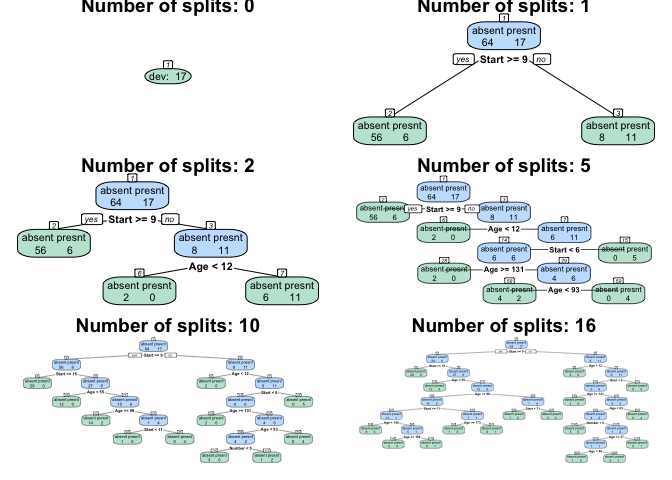
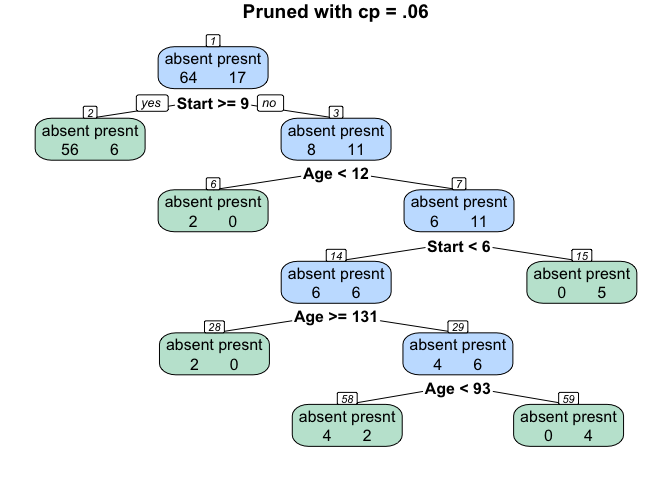
set eval=TRUE

diff --git a/README.md b/README.md
@@ -75,6 +75,8 @@ leaves more explict by setting `show_leaf_dev` to `TRUE`:
 annotree(kmod, show_classes = TRUE, show_leaf_dev = TRUE)
 ```
 
+<img src="man/figures/README-unnamed-chunk-3-1.png" width="100%" />
+
 Now we turn to the pruning process. `rpart()` returns a `cptable` which
 provides pruning options. Following the cost complexity pruning
 algorithm of CART (see Breiman, et al. 1984) the table does not show
@@ -88,6 +90,13 @@ the pruning process.
 
 ``` r
 kmod$cptable
+#>        CP nsplit rel error xerror   xstd
+#> 1 0.17647      0    1.0000  1.000 0.2156
+#> 2 0.11765      1    0.8235  1.176 0.2283
+#> 3 0.07843      2    0.7059  1.176 0.2283
+#> 4 0.05882      5    0.4706  1.118 0.2243
+#> 5 0.02941     10    0.1765  1.353 0.2387
+#> 6 0.00000     16    0.0000  1.294 0.2355
 ```
 
 The `CP` column shows the minimum complexity parameter for a tree of the
@@ -98,6 +107,8 @@ will have 5 splits:
 ``` r
 annotree(prune(kmod, .06), main = "Pruned with cp = .06")
 ```
+
+<img src="man/figures/README-unnamed-chunk-5-1.png" width="100%" />
 
 ## How the cptable is created
 
@@ -174,6 +185,8 @@ annotree(kmod, show_classes = FALSE, show_gt = TRUE,
          show_leaf_dev = TRUE, show_internal_dev = TRUE)
 ```
 
+<img src="man/figures/README-unnamed-chunk-6-1.png" width="100%" />
+
 By setting `show_min` to `TRUE` we can add “\*minimum” to the labels for
 node(s) with the minimum value for $g(t)$. Adding `show_pruned` changes
 the color of these nodes and their descendents:
@@ -183,6 +196,8 @@ annotree(kmod, show_classes = FALSE, show_gt = TRUE,
          show_leaf_dev = TRUE, show_internal_dev = TRUE, 
          show_min = TRUE, show_pruned = TRUE)
 ```
+
+<img src="man/figures/README-unnamed-chunk-7-1.png" width="100%" />
 
 The weakest links have $g(t) = 0.5$.
 
@@ -198,6 +213,8 @@ annotree(kmod, show_classes = FALSE, show_cp = TRUE,
          show_min = TRUE, show_pruned = TRUE)
 ```
 
+<img src="man/figures/README-unnamed-chunk-8-1.png" width="100%" />
+
 To save space, henceforth we will only show the scaled values.
 
 To determine the next threshold we need to recalculate $g(t)$ or `cp`.
@@ -211,6 +228,8 @@ annotree(kmod2, show_classes = FALSE, show_cp = TRUE,
          show_min = TRUE, show_pruned = TRUE)
 ```
 
+<img src="man/figures/README-unnamed-chunk-9-1.png" width="100%" />
+
 We continue in this way until the tree is reduced to a single node:
 
 ``` r
@@ -218,19 +237,36 @@ kmod3 <- prune(kmod2, .06)
 annotree(kmod3, show_classes = FALSE, show_cp = TRUE,
          show_leaf_dev = TRUE, show_internal_dev = TRUE, 
          show_min = TRUE, show_pruned = TRUE)
+```
+
+<img src="man/figures/README-unnamed-chunk-10-1.png" width="100%" />
+
+``` r
 
 kmod4 <- prune(kmod3, .08)
 annotree(kmod4, show_classes = FALSE, show_cp = TRUE,
          show_leaf_dev = TRUE, show_internal_dev = TRUE, 
          show_min = TRUE, show_pruned = TRUE)
+```
+
+<img src="man/figures/README-unnamed-chunk-10-2.png" width="100%" />
+
+``` r
 
 kmod5 <- prune(kmod4, .12)
 annotree(kmod5, show_classes = FALSE, show_cp = TRUE,
          show_leaf_dev = TRUE, show_internal_dev = TRUE, 
          show_min = TRUE, show_pruned = TRUE)
+```
+
+<img src="man/figures/README-unnamed-chunk-10-3.png" width="100%" />
+
+``` r
 
 kmod6 <- prune(kmod5, .18)
 annotree(kmod6, show_classes = TRUE, show_cp = TRUE,
          show_leaf_dev = TRUE, show_internal_dev = TRUE, 
          show_min = TRUE, show_pruned = TRUE)
 ```
+
+<img src="man/figures/README-unnamed-chunk-10-4.png" width="100%" />
